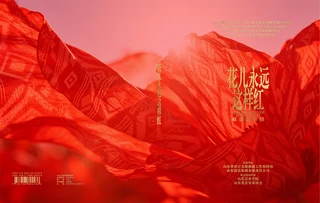
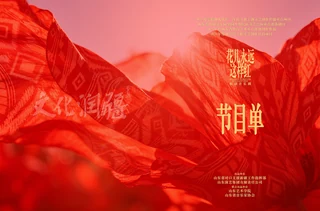
Replace book presentation images and preserve full original framing

diff --git a/src/data/projectImages.js b/src/data/projectImages.js
@@ -191,8 +191,8 @@ export const projectImages = {
   'yixin-community-taichi': { caption: "乡村太极队", captionEn: "Village tai chi group", width: 961, height: 558, note: "商河县白桥镇河埃孙村：专业指导与本土骨干带练结合，推动队伍持续成长。", noteEn: "Heaisun Village: professional instruction and local peer leadership support the group’s continued growth.", thumb: yixin_community_taichi_320, medium: yixin_community_taichi_960 },
   'yixin-community-painting': { caption: "绘画与城市采风", captionEn: "Painting and urban sketching", width: 961, height: 560, note: "槐荫区绘画班：学员以画笔记录老商埠、老街巷与济南的市井生活。", noteEn: "Huaiyin painting classes: participants document Jinan’s historic streets and everyday city life.", thumb: yixin_community_painting_320, medium: yixin_community_painting_960 },
   'yixin-community-makeup': { caption: "社区美妆课堂", captionEn: "Community makeup workshop", width: 961, height: 565, note: "文恒社区：专业教师教授护肤与日常妆容，让课堂成为交流与建立自信的空间。", noteEn: "Wenheng Community: practical skincare and makeup classes create a space for confidence and social connection.", thumb: yixin_community_makeup_320, medium: yixin_community_makeup_960 },
-  'flowers-book-sleeve': { caption: '书籍效果展示图', captionEn: 'Book presentation', edgeToEdge: true, trimMargins: true, width: 2938, height: 1600, thumb: flowers_book_sleeve_320, medium: flowers_book_sleeve_960 },
-  'flowers-book-cover': { caption: '封面和封底展开图', captionEn: 'Front and back cover spread', width: 1004, height: 638, naturalRatio: true, thumb: flowers_book_cover_320, medium: flowers_book_cover_960 },
+  'flowers-book-sleeve': { caption: '书籍效果展示图', captionEn: 'Book presentation', edgeToEdge: true, width: 2234, height: 1040, thumb: flowers_book_sleeve_320, medium: flowers_book_sleeve_960 },
+  'flowers-book-cover': { caption: '封面和封底展开图', captionEn: 'Front and back cover spread', width: 2580, height: 1704, naturalRatio: true, thumb: flowers_book_cover_320, medium: flowers_book_cover_960 },
   'flowers-book-cover-mockup-1': { caption: '封面与封底效果', captionEn: 'Front and back cover mockup', width: 1036, height: 691, thumb: flowers_book_cover_mockup_1_320, medium: flowers_book_cover_mockup_1_960 },
   'flowers-book-cover-mockup-2': { caption: '精装书体与书脊', captionEn: 'Hardcover construction and spine', width: 1035, height: 691, thumb: flowers_book_cover_mockup_2_320, medium: flowers_book_cover_mockup_2_960 },
   'flowers-book-cover-mockup-3': { caption: '封面与书脊效果', captionEn: 'Cover and spine mockup', width: 1034, height: 690, thumb: flowers_book_cover_mockup_3_320, medium: flowers_book_cover_mockup_3_960 },

diff --git a/src/components/ProjectCaseStudy.jsx b/src/components/ProjectCaseStudy.jsx
@@ -10,7 +10,7 @@ export default function ProjectCaseStudy({ project, lang }) {
     const index = project.images.indexOf(key)
     const caption = en ? image.captionEn : image.caption
     const sizes = image.edgeToEdge ? '(max-width: 767px) calc(100vw - 56px), (max-width: 1099px) calc(100vw - 112px), 960px' : lead ? '(max-width: 767px) 280px, (max-width: 1099px) calc(100vw - 112px), 960px' : reading ? '(max-width: 767px) 280px, (max-width: 1099px) 400px, 360px' : '(max-width: 767px) 280px, (max-width: 1099px) 400px, 520px'
-    return <figure className={'project-artwork book-artwork' + (lead ? ' is-lead' : '') + (image.naturalRatio ? ' is-natural-ratio' : '') + (image.edgeToEdge ? ' is-edge-to-edge' : '') + (image.trimMargins ? ' is-trimmed-presentation' : '')} key={key} data-protected-image>
+    return <figure className={'project-artwork book-artwork' + (lead ? ' is-lead' : '') + (image.naturalRatio ? ' is-natural-ratio' : '') + (image.edgeToEdge ? ' is-edge-to-edge' : '')} key={key} data-protected-image>
       <div className="project-artwork-surface"><img src={image.medium} srcSet={`${image.thumb} 320w, ${image.medium} 960w`} sizes={sizes} width={image.width} height={image.height} alt={`${title} · ${caption}`} draggable="false" loading={index === 0 ? 'eager' : 'lazy'} decoding="async" /></div>
       <figcaption><span>{caption}</span><span>{String(index + 1).padStart(2, '0')} / {project.images.length}</span></figcaption>
       {image.note && <p className="artwork-note">{en ? image.noteEn : image.note}</p>}

diff --git a/src/styles.css b/src/styles.css
@@ -425,9 +425,6 @@ img { -webkit-user-drag: none; -webkit-touch-callout: none; user-select: none; }
 .book-project-hero.is-edge-to-edge-hero { width: min(960px, 100%); margin-inline: auto; }
 .book-artwork.is-edge-to-edge { grid-column: 1 / -1; width: min(960px, 100%); justify-self: center; }
 .book-artwork.is-edge-to-edge .project-artwork-surface img { max-height: none; }
-/* Frame only the empty margins in the supplied mockup; keep the original image intact. */
-.book-artwork.is-trimmed-presentation .project-artwork-surface { position: relative; aspect-ratio: 784 / 310; }
-.book-artwork.is-trimmed-presentation .project-artwork-surface img { position: absolute; width: 122.448980%; max-width: none; height: auto; left: -10.204082%; top: -36.129032%; }
 .book-artwork figcaption { font-size: 11px; gap: 12px; }
 .book-artwork figcaption > span:last-child { white-space: nowrap; flex: none; }
 .artwork-note { margin-top: 9px; max-width: 65ch; font-size: 11px; line-height: 1.8; color: var(--muted); }

diff --git a/src/assets/projects/SOURCES.md b/src/assets/projects/SOURCES.md
@@ -206,3 +206,10 @@ ISRC CN-E26-26-00004         ISBN 978-7-7988-0553-6
 用户指定 `/Users/dingruomu/Downloads/外盒参考图最新定.png`（2938 × 1600）替换 `flowers-book-sleeve`。完整构图、原背景与投影保留，仅生成 320 × 174、960 × 523 WebP；图注为“书籍效果展示图”。原 PNG 不发布。
 
 第二张 `flowers-book-cover` 素材不改动，只通过自然比例容器移除网页额外留出的上下灰条，图注改为“封面和封底展开图”。其余图片不去背景；所有设计图片容器直角，不裁切原作品。
+
+## 2026-10-24 两张书籍新截图完整替换
+
+- `flowers-book-sleeve`：`/Users/dingruomu/Downloads/截屏2026-10-24 10.27.53131.png`，2234×1040，展示副本320×149／960×447。
+- `flowers-book-cover`：`/Users/dingruomu/Downloads/截屏2026-10-24 10.29.27.png`，2580×1704，展示副本320×211／960×634。
+
+按用户要求完整保留原图构图、文字、背景与投影，仅等比缩放并转WebP，不裁切或去背景。原PNG不发布。此前首图的CSS裁边已撤销。

diff --git a/DESIGN_QA.md b/DESIGN_QA.md
@@ -290,3 +290,9 @@
 - 四个尺寸均保留20张图片、无横向溢出；其他原图和列表预览未改动，控制台无警告或错误。生产构建及 diff 检查通过，无新增依赖。
 
 截图：`portfolio-book-trimmed-presentation.png`。
+
+### 2026-10-24 替换两张书籍原图（当前版本）
+
+首图为新2234×1040截图，第二张为新2580×1704截图；都生成320／960px WebP展示版，完整构图保留。浏览器确认无裁边类与绝对定位，object-fit: contain；桌面首图960×447px，第二张546×360.59px、与第三张等宽。390px 首图327×152.26px，第二张280×184.63px，仍二十张、无横向溢出。生产构建及 diff 检查通过，裁边代码移除。
+
+截图：`portfolio-book-new-original-presentation.png`、`portfolio-book-new-original-cover.png`。
